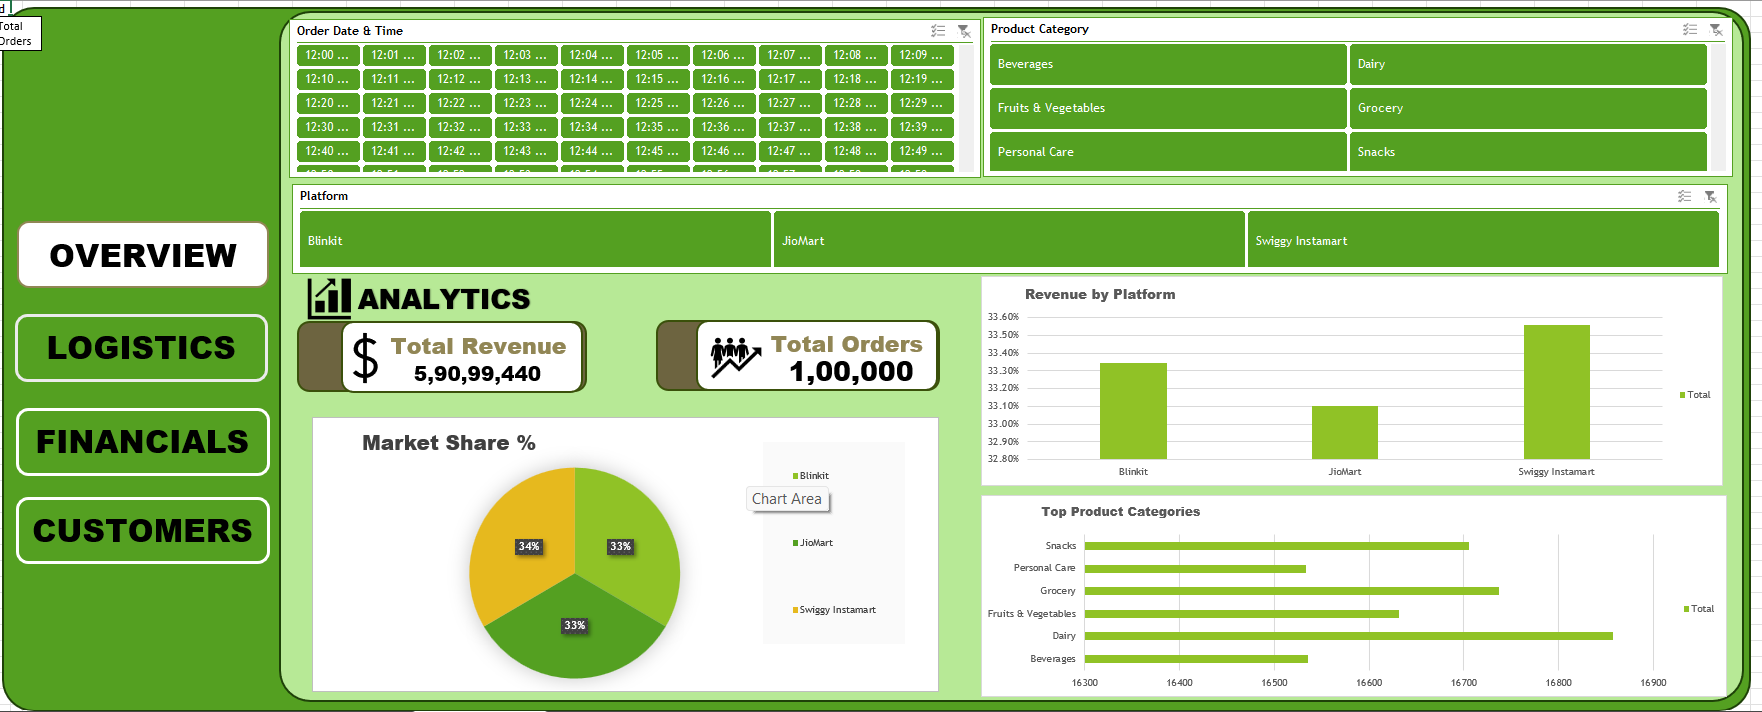
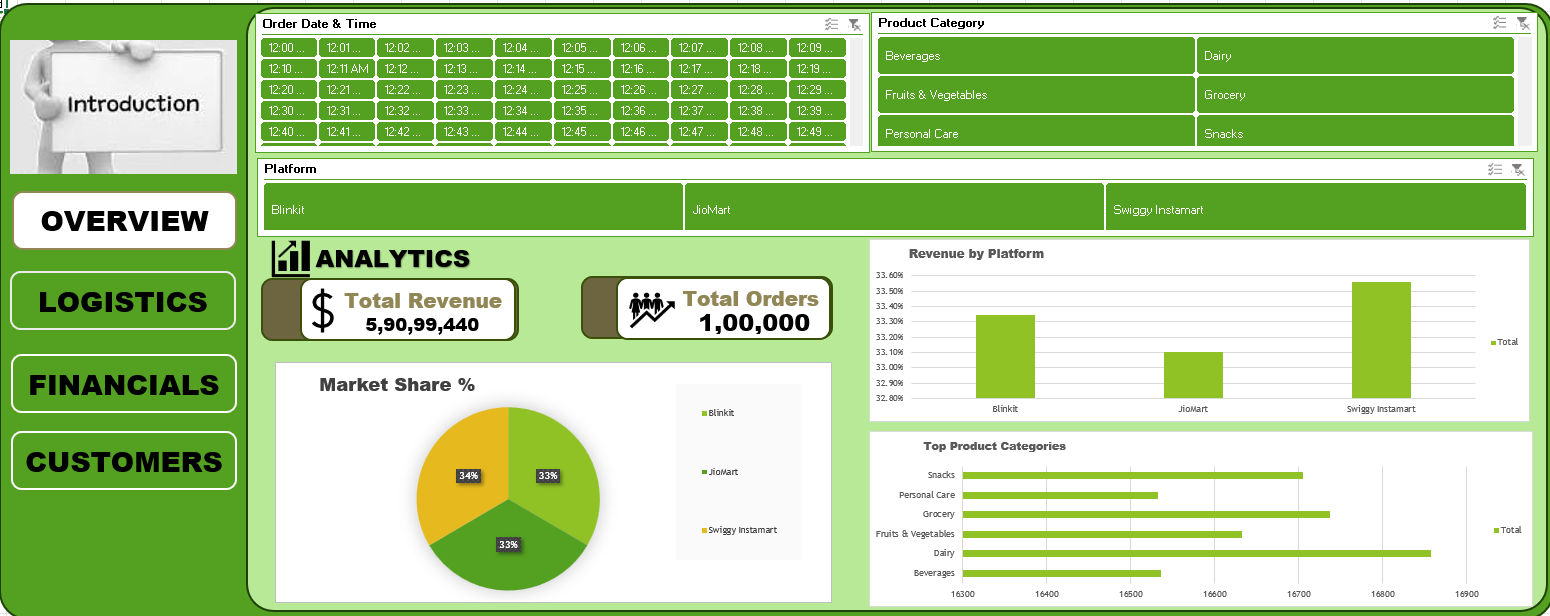
Add Logistics, Financials and Customers dashboard views

diff --git a/README.md b/README.md
@@ -1,23 +1,47 @@
 # Sales Business Performance Dashboard — Quick Commerce
 
-An Excel analysis of 100,000 quick-commerce orders across Blinkit, JioMart, and Swiggy Instamart — revenue, platform share, product categories, delivery, and customer feedback.
+An Excel analysis of 100,000 quick-commerce orders across Blinkit, JioMart, and Swiggy Instamart — revenue, platform share, product categories, delivery, refunds, and customer feedback. The dashboard has four views: Overview, Logistics, Financials, and Customers.
 
-![Sales Business Performance Dashboard](sales-business-performance-dashboard.png)
+## Overview
+
+![Overview — Sales Business Performance Dashboard](sales-business-performance-dashboard.png)
+
+- **100,000 orders** analysed, with **total revenue of ₹59,099,440**
+- **Revenue by platform:** Swiggy Instamart ₹19,831,984 · Blinkit ₹19,705,084 · JioMart ₹19,562,372 — an almost even three-way split (34% / 33% / 33%)
+- **Top categories by revenue:** Personal Care ₹17,395,601 · Grocery ₹14,194,055 · Beverages ₹9,086,669 · Dairy ₹7,610,522 · Fruits & Vegetables ₹6,246,517
+
+## Logistics
+
+![Logistics — delivery time and delays](logistics-dashboard.png)
+
+- **Average delivery time: 29.54 minutes**
+- **Successful deliveries: 86,328**
+- **Delivery delay:** 14% of orders delayed, 86% not delayed
+- Average delivery time by platform is shown alongside peak delivery hours
+
+## Financials
+
+![Financials — order value, refunds, and profitable categories](financials-dashboard.png)
+
+- **Average order value: ₹590.99**
+- **Refunded revenue: ₹2,71,33,887**
+- **Most profitable categories:** Personal Care, then Grocery, Beverages, Dairy, Fruits & Vegetables, and Snacks
+- Refund requests and revenue by service rating are broken down by platform
+
+## Customers
+
+![Customers — service rating and feedback](customers-dashboard.png)
+
+- **Average service rating: 3.2**
+- **High rating count: 46,477**
+- Average rating by platform and a feedback breakdown across all customer comments
 
 ## What this analysis answers
 
 - How much revenue does each platform bring in, and how evenly is it split?
 - Which product categories drive the most revenue?
 - How do delivery time, delivery delays, and service ratings vary?
-- What are customers actually saying in their feedback?
-
-## Key findings
-
-- **100,000 orders** analysed, with **total revenue of ₹59,099,440**
-- **Revenue by platform:** Swiggy Instamart ₹19,831,984 · Blinkit ₹19,705,084 · JioMart ₹19,562,372 — an almost even three-way split
-- **Top categories by revenue:** Personal Care ₹17,395,601 · Grocery ₹14,194,055 · Beverages ₹9,086,669 · Dairy ₹7,610,522 · Fruits & Vegetables ₹6,246,517
-- The workbook includes dedicated LOGISTICS, FINANCIAL, and CUSTOMER analysis sheets, plus the DASHBOARD view
-- Every order carries platform, product category, order value, delivery time, delivery delay, service rating, and customer feedback
+- What are customers actually saying in their feedback, and how much revenue is refunded?
 
 ## Tools used
 
@@ -29,7 +53,10 @@ An Excel analysis of 100,000 quick-commerce orders across Blinkit, JioMart, and 
 | File | Description |
 | --- | --- |
 | `sales-business-performance-dashboard.xlsx` | The complete Excel workbook — 100,000 orders with platform, category, delivery, and feedback data, plus PivotTables and the DASHBOARD, LOGISTICS, FINANCIAL, and CUSTOMER sheets |
-| `sales-business-performance-dashboard.png` | Dashboard screenshot |
+| `sales-business-performance-dashboard.png` | Overview dashboard screenshot |
+| `logistics-dashboard.png` | Logistics dashboard screenshot |
+| `financials-dashboard.png` | Financials dashboard screenshot |
+| `customers-dashboard.png` | Customers dashboard screenshot |
 
 ## How to open it
 
